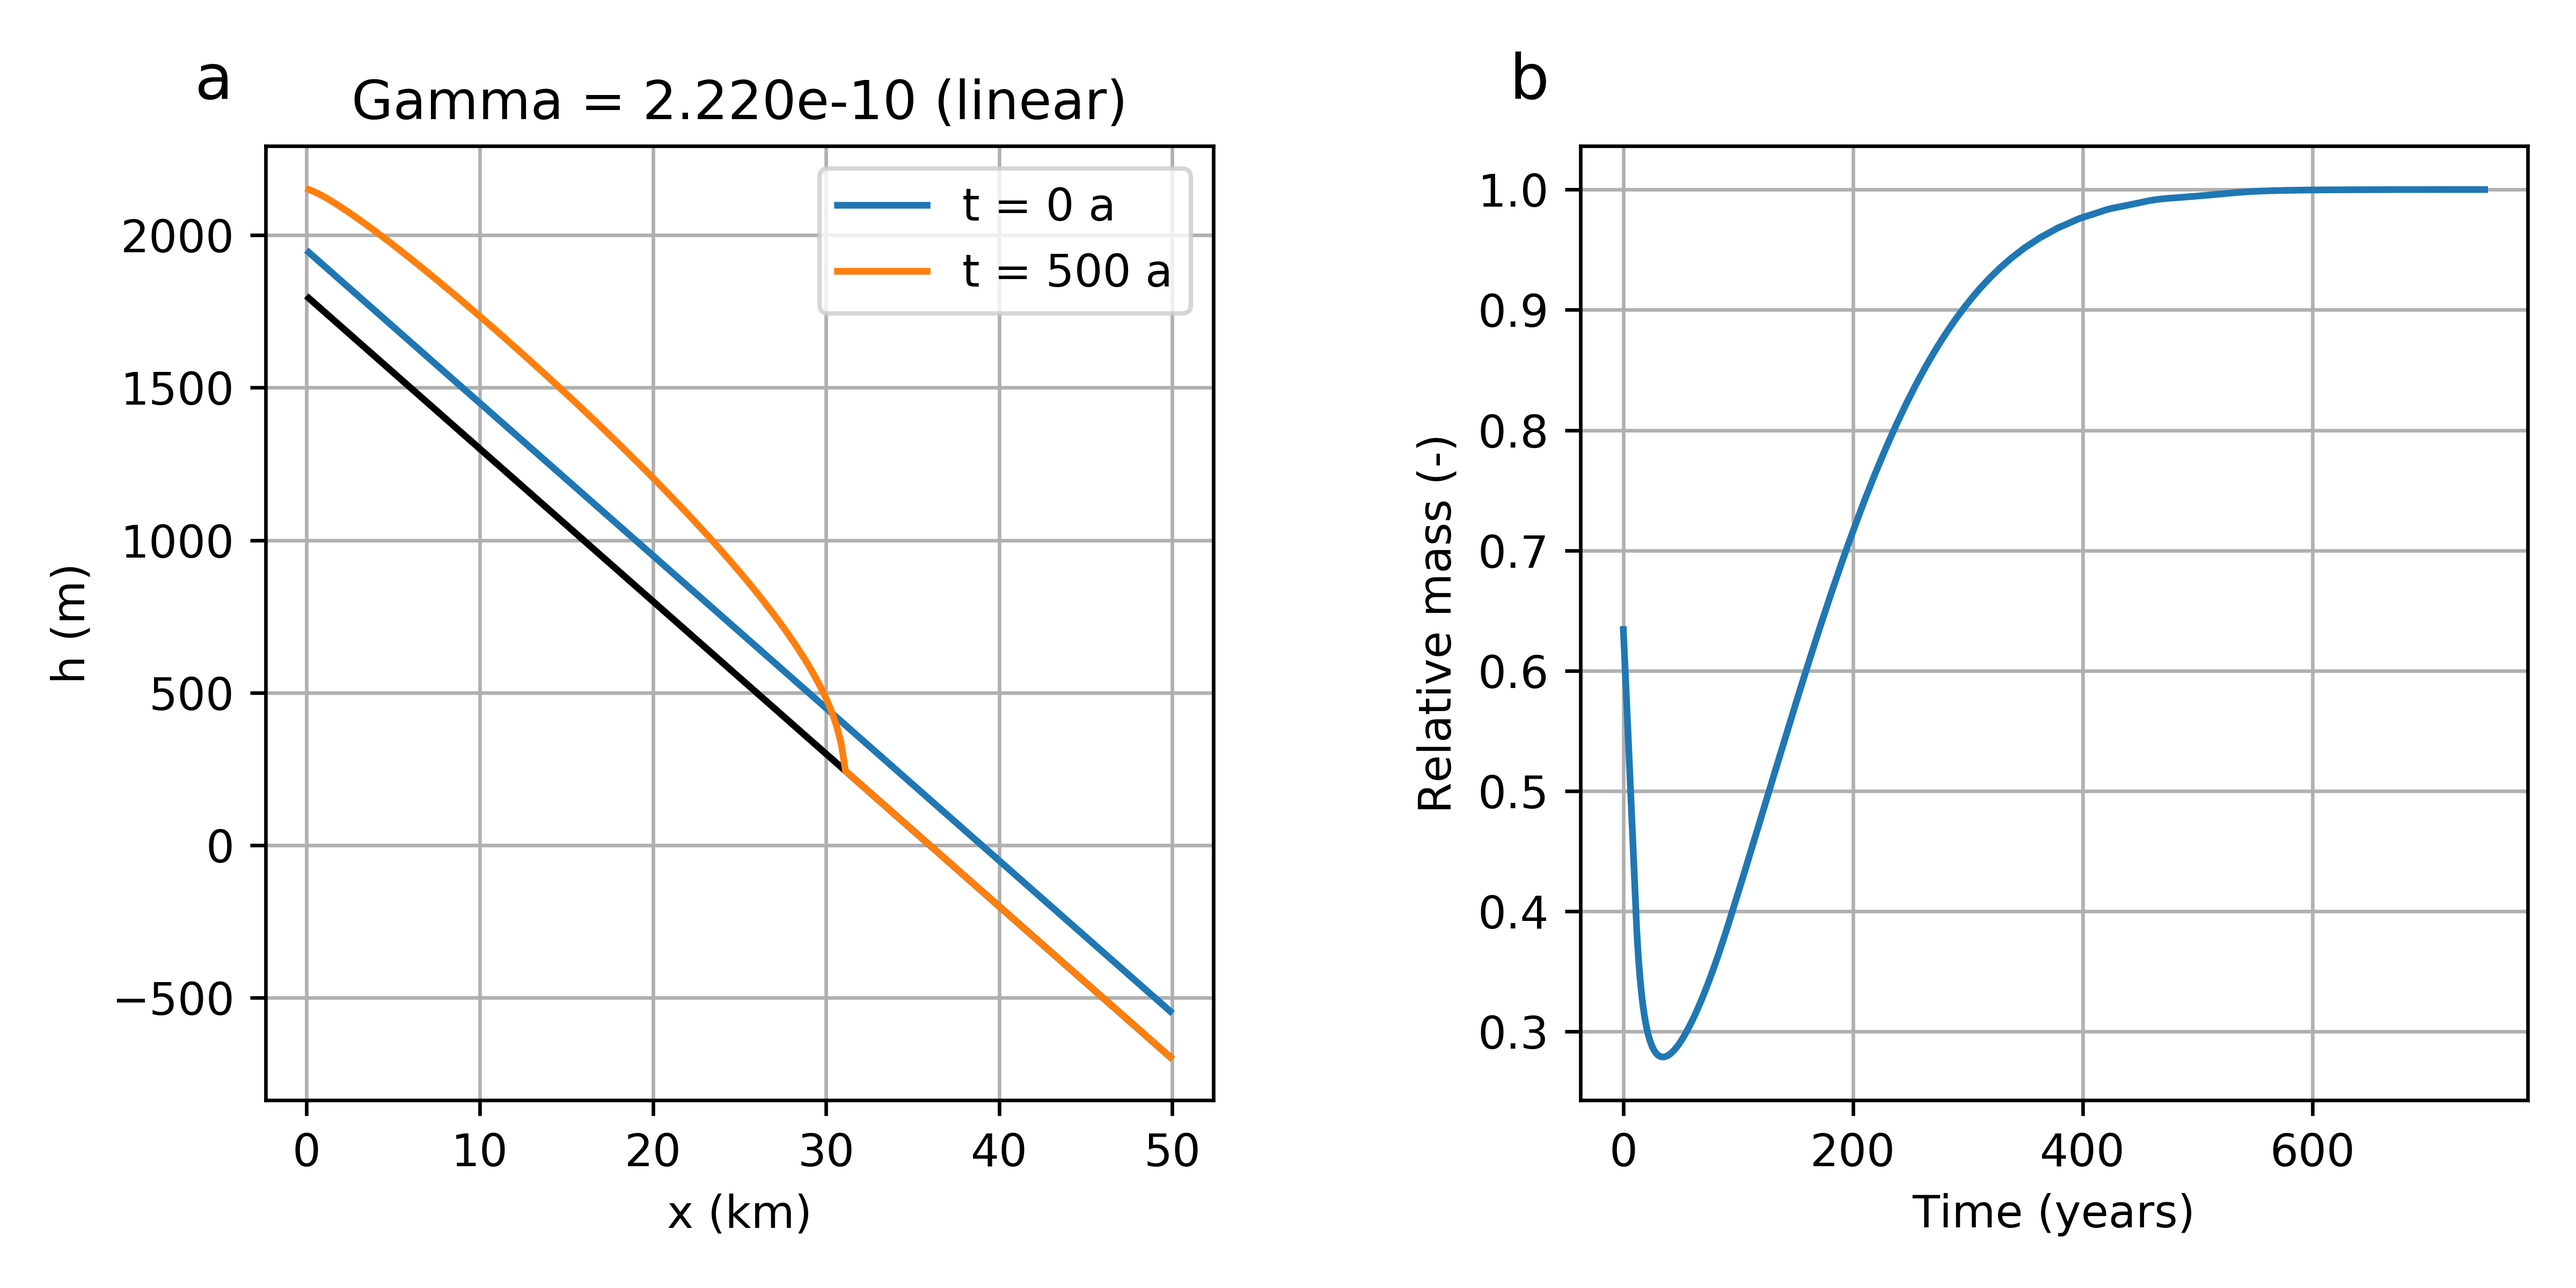
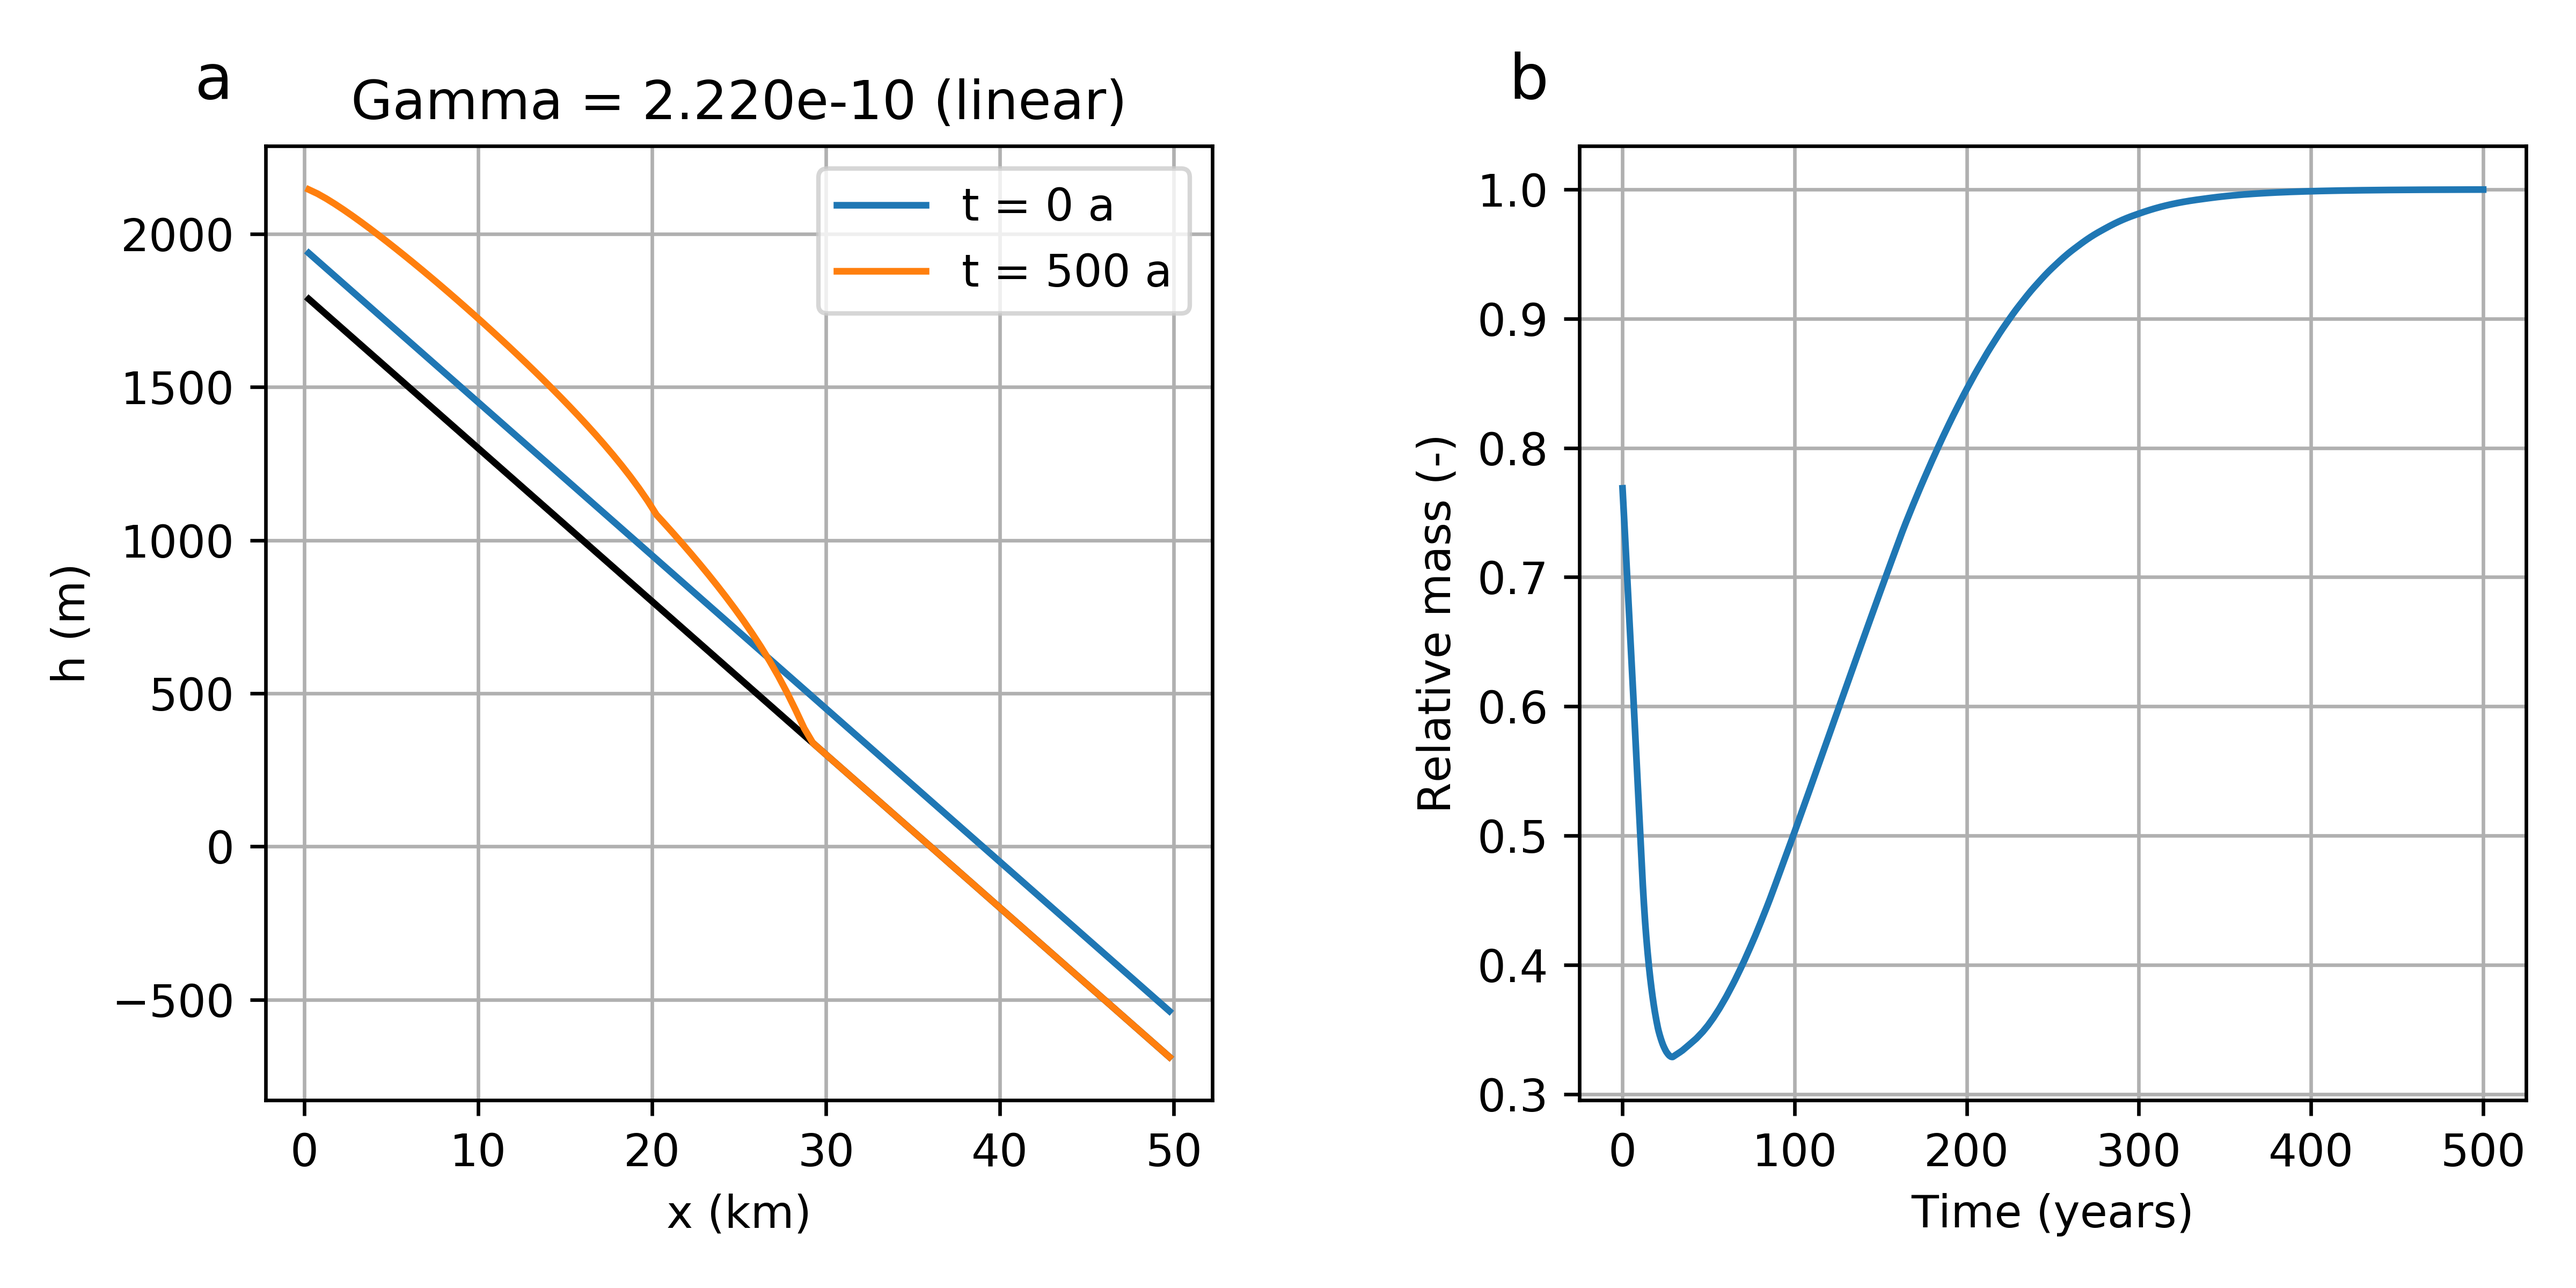
Sliding bug

diff --git a/run_valley.py b/run_valley.py
@@ -1,4 +1,3 @@
-
 import numpy as np
 from matplotlib import pyplot as plt
 
@@ -8,18 +7,19 @@ from SIA import solve_SIA
 
 # DOMAIN
 L = 50e3                            # Domain length (m)
-N = 200                             # Number of grid centre points
+N = 100                             # Number of grid centre points
 dx = L/N
-# ub = 500/365/86400                   # Sliding velocity (m/s)
-# ub = np.zeros(N)
-# ub[40:60] = 1e4/365/86400
 
 xc = np.arange(dx/2, L+dx/2, dx)    # Cell centre coordinates
 xe = np.arange(0, L+dx, dx)         # Cell edge coordinates
 
-# ub = xc/L * 1000 /86400/365
-# ub = 100/86400/365
-ub = 0
+# SLIDING
+# Spatially uniform sliding
+ub = 150*np.ones(xc.shape)/365/86400
+
+# Sliding below a specified x-position
+# ub = np.zeros(xc.shape)
+# ub[40:] = 100/365/86400
 
 # MASS BALANCE
 # Specify constant mass balance. Gamma is interpreted as the
@@ -37,9 +37,9 @@ zb = b0 - 1/20*xc                   # Flat bed elevation
 # INITIAL THICKNESS
 h0 = 150*np.ones(xc.shape)
 
-# INTEGRATION
+# INTEGRATION parameters
 t0 = 0                              # Start time (seconds)
-tend = 750*365*86400                # End time (seconds)
+tend = 500*365*86400                # End time (seconds)
 dt = 30*86400                       # Time step (seconds). This can be large
                                     # since we use implicit timestepping
                                     
@@ -76,9 +76,11 @@ ax2.set_ylabel('Relative mass (-)')
 ax1.text(-0.075, 1.05, 'b', transform=ax2.transAxes, fontsize=14)
 ax1.set_title('Gamma = %.3e (%s)' % (Gamma, balance))
 
-print(H1[-1, :])
-
 plt.tight_layout()
+
+fig, ax = plt.subplots()
+ax.plot(xc/1e3, H1[-1, :])
+ax.grid()
 
 plt.show()
 fig1.savefig('valley_ub.png', dpi=600)

diff --git a/SIA.py b/SIA.py
@@ -64,9 +64,16 @@ def rhs_1d(t, h, zb, dx, Gamma=Gamma, zELA=zELA,
     dzdx_center = (zs[1:] - zs[:-1])/dx
 
     # k defined on centers
-    k_center = -(2*A)*((rho*g)**n)*(h**(n+2))/(n+2) + ub*h
+    k_center = -(2*A)*((rho*g)**n)*(h**(n+2))/(n+2)
     q_edge = np.zeros(n_edge)
     q_edge[1:-1] = (k_center[1:] + k_center[:-1])/2 * dzdx_center**n
+
+    # Compute sliding contribution
+    ub_edge = np.zeros(n_edge)
+    ub_edge[1:-1] = ub[:-1]
+    h_edge = np.zeros(n_edge)
+    h_edge[1:-1] = h[:-1]
+    ubh = ub_edge * h_edge
 
     # Calculate mass balance
     if b=='linear':
@@ -76,18 +83,24 @@ def rhs_1d(t, h, zb, dx, Gamma=Gamma, zELA=zELA,
 
     if bcs[0]=='no-flux':
         # No flux boundary conditions
-        q_edge[0] = 0
+        q_edge[0] = 0 
+        ubh[0] = 0      # No sliding on boundary
     elif bcs[0]=='free-flux':
         # q_edge[0] = k_center[0]*(dzdx_center[0])**n
         q_edge[0] = q_edge[1]
-        q_edge[0] += bdot[0]*dx*np.sign(q_edge[0])
+        q_edge[0] += bdot[0]*dx*np.sign(q_edge[0]) + ub[0]*h[0]
+        ubh[0] = ubh[1] # Extrapolate sliding to the first cell
 
     if bcs[1]=='no-flux':
         q_edge[-1] = 0
+        ubh[-1] = 0     # No sliding on no-flux boundary
     elif bcs[1]=='free-flux':
         # q_edge[-1] = k_center[-1]*dzdx_center[-1]**n
         q_edge[-1] = q_edge[-2]
-        q_edge[-1] += bdot[1]*dx*np.sign(q_edge[-1])
+        q_edge[-1] += bdot[1]*dx*np.sign(q_edge[-1]) + ub[-1]*h[-1]
+        ubh[-1] = ub[-1]*h[-1]  # Sliding on last cell
+
+    q_edge = q_edge + ubh
 
     # Time derivative is flux divergence + mass balance
     hprime = -(q_edge[1:] - q_edge[:-1])/dx + bdot
